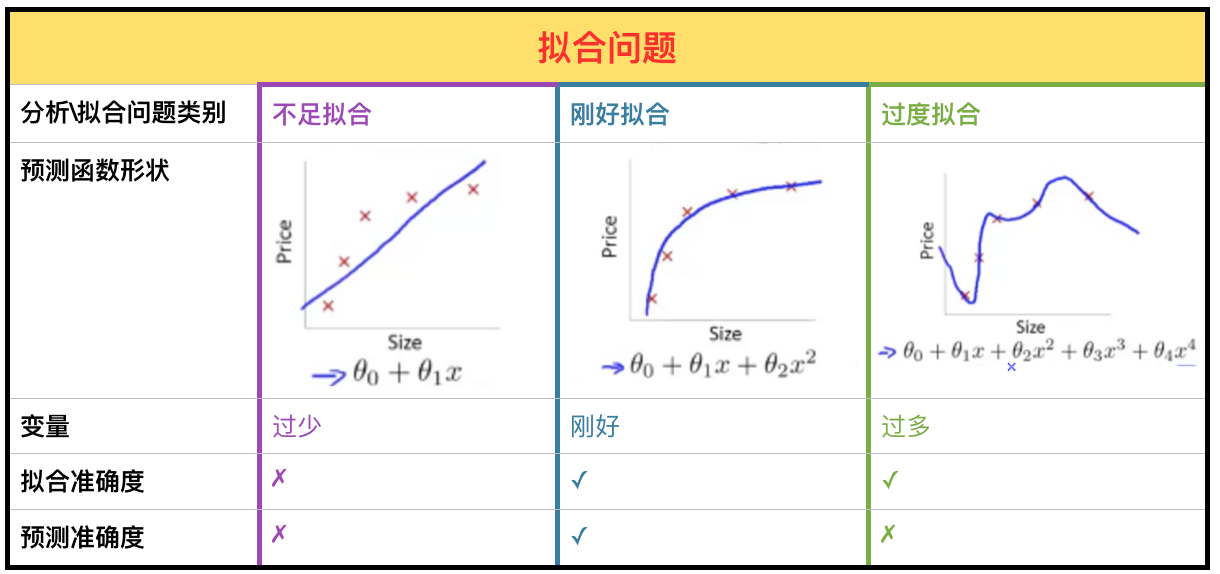
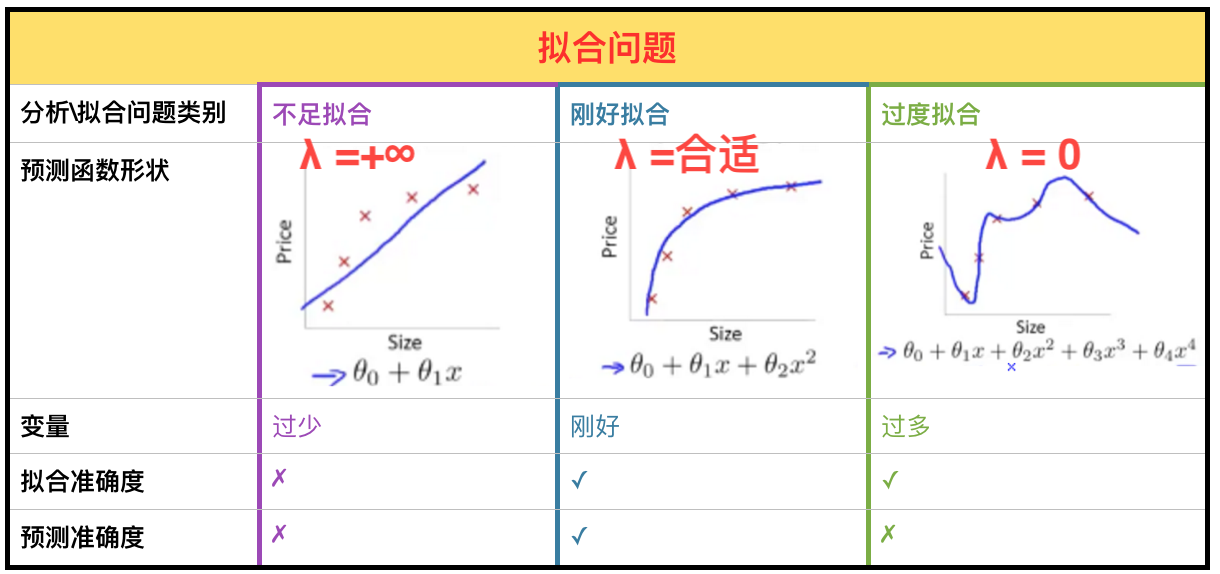
machine learning add regularization intuition

Changed region(s): [[0.4984, 0.2369, 0.623, 0.3258], [0.8098, 0.2369, 0.9033, 0.2962], [0.2492, 0.2369, 0.3426, 0.2962]]

diff --git a/_posts/-00 Mathmatics for CS/2014-12-01-Linear Algibra - Immersive Study.md b/_posts/-00 Mathmatics for CS/2014-12-01-Linear Algibra - Immersive Study.md
@@ -1,11 +1,11 @@
 ---
 layout: post
-title: Probability Theory
+title: Linear Algibra - Immersive Study 
 categories: [-00 Math]
-tags: [Probability Theory]
+tags: [Linear Algibra]
 number: [-0.1]
 fullview: false
-shortinfo: 本文是对Probability Theory的总结。
+shortinfo: 本文是对Linear Algibra的总结。
 
 ---
 目录
@@ -20,9 +20,14 @@ shortinfo: 本文是对Probability Theory的总结。
 
 ## 1 Introduction ##
 
-### 1.1 Bayers Rule
+矩阵可以从两个角度理解
 
-$$P(A \cap B)=P(B)P(A|B) = P(A)P(B|A)$$
+1. 静态， 多维空间的坐标，封装数据。
+
+2. 动态， 线性变换。
+  2.1 秩      是线性变化后基向量的空间维度
+  2.2 行列式   是线性变换后基向量张成的面积 
+  2.3 特征向量 是线性变换后仍在同一直线上的向量，特征值是这些向量的伸缩程度。
 
 ### 1.1 矩阵静态
 
@@ -30,18 +35,52 @@ $$P(A \cap B)=P(B)P(A|B) = P(A)P(B|A)$$
 
 #### 1.1.2 Dot Product
 
+$$\vec{U} \cdot \vec{V} = \begin{bmatrix} u_{1} \\\ u_{2}\end{bmatrix}  \cdot  \begin{bmatrix} v_{1} \\\ v_{2}\end{bmatrix} = u_{1}v_{1} - u_{2}v_{2} = |\vec{U}||\vec{V}|cos(<\vec{U}, \vec{V}>)$$
+
+$$\vec{U}$$投射到$$\vec{V}$$上的大小与$$|\vec{V}|$$的乘积。
+
 #### 1.1.3 Vector Product
 
+$$\vec{U} \times \vec{V} = |U||V| sin(\theta)$$
+大小为由uv向量形成的平行四边形的面积，方向为右手法则指向的垂直于uv平面
+
+- Scalar triple product: (v X u) * w, 大小为由u,v,w形成的立方体的体积，为标量。
+
+- Vector triple product: 
+
+
 #### 1.1.4 Matrix
+
+> Matrix: 2 dimentional scalar array.
 
 ### 1.2 矩阵动态
 
 #### 1.2.1 Determinants
 
+二维行列式
+
+$$A = \begin{bmatrix}a_{11} & a_{12}\\a_{21} & a_{22}\end{bmatrix} = \begin{bmatrix}\vec{a_{1}} & \vec{a_{2}}\end{bmatrix}$$
+$$det(A) =|\vec{a_{1}} \times\vec{a_{2}}| = a_{11}a_{22} - a_{12}a_{21}
+= 两个向量张成的平行四边形的面积$$
+
+{: .img_middle_hg}
+![2dDerminants]({{site.url}}/assets/images/posts/-00_Math/LinearAlgibra/2dDerminants.png)
+
+三维行列式
+
+$$A = \begin{bmatrix}a_{11} & a_{12} & a_{13}\\a_{21} & a_{22}& a_{23}\\a_{31} & a_{32}& a_{33}\end{bmatrix} = \begin{bmatrix}\vec{a_{1}} & \vec{a_{2}} & \vec{a_{3}}\end{bmatrix}$$
+$$det(A) =|\vec{a_{1}} \times\vec{a_{2}}| = a_{11}a_{22}a_{33}+a_{12}a_{23}a_{31}+a_{13}a_{21}a_{32}-a_{13}a_{22}a_{31}-a_{11}a_{23}a_{32}-a_{12}a_{21}a_{33}=三维向量张成的平行立方体的体积$$
+
+{: .img_middle_hg}
+![3dDerminants]({{site.url}}/assets/images/posts/-00_Math/LinearAlgibra/3dDerminants.png)
 
 #### 1.2.2 Rank
 
+$$A_{M \times N} : rank(A) + nullspace(A) = N$$
+
 #### 1.2.3 Linear Mappings
+
+矩阵从静态角度可以看可以是坐标，从动态角度看可以是坐标系的转换。
 
 #### 1.2.4 Eignvalues and Eigenvectors 
 

diff --git a/_posts/-00 Mathmatics for CS/2014-11-01-Probability Theory.md b/_posts/-00 Mathmatics for CS/2014-11-01-Probability Theory.md
@@ -1,11 +1,11 @@
 ---
 layout: post
-title: Linear Algibra - Immersive Study 
+title: Probability Theory
 categories: [-00 Math]
-tags: [Linear Algibra]
+tags: [Probability Theory]
 number: [-0.1]
 fullview: false
-shortinfo: 本文是对Linear Algibra的总结。
+shortinfo: 本文是对Probability Theory的总结。
 
 ---
 目录
@@ -20,14 +20,20 @@ shortinfo: 本文是对Linear Algibra的总结。
 
 ## 1 Introduction ##
 
-矩阵可以从两个角度理解
+### 1.1 Bayers Rule
 
-1. 静态， 多维空间的坐标，封装数据。
+$$P(A \cap B)=P(B)P(A|B) = P(A)P(B|A)$$
 
-2. 动态， 线性变换。
-  2.1 秩      是线性变化后基向量的空间维度
-  2.2 行列式   是线性变换后基向量张成的面积 
-  2.3 特征向量 是线性变换后仍在同一直线上的向量，特征值是这些向量的伸缩程度。
+### 1.2 Distribution
+
+$$E[X]= \mu$$
+$$cova(X, Y)= E[(X-E[X])(Y-E[Y])] = E[XY] - E[X]E[Y]  \in [-\delta(X)\delta(Y), \delta(X)\delta(Y)]$$
+
+
+
+{: .img_middle_mid}
+![gcc & gdb]({{site.url}}/assets/images/posts/-00_Math/Probability/correlation.png)
+
 
 ### 1.1 矩阵静态
 
@@ -37,46 +43,16 @@ shortinfo: 本文是对Linear Algibra的总结。
 
 #### 1.1.3 Vector Product
 
-$$\vec{U} \times \vec{V} = |U||V| sin(\theta)$$
-大小为由uv向量形成的平行四边形的面积，方向为右手法则指向的垂直于uv平面
-
-- Scalar triple product: (v X u) * w, 大小为由u,v,w形成的立方体的体积，为标量。
-
-- Vector triple product: 
-
-
 #### 1.1.4 Matrix
-
-> Matrix: 2 dimentional scalar array.
 
 ### 1.2 矩阵动态
 
 #### 1.2.1 Determinants
 
-二维行列式
-
-$$A = \begin{bmatrix}a_{11} & a_{12}\\a_{21} & a_{22}\end{bmatrix} = \begin{bmatrix}\vec{a_{1}} & \vec{a_{2}}\end{bmatrix}$$
-$$det(A) =|\vec{a_{1}} \times\vec{a_{2}}| = a_{11}a_{22} - a_{12}a_{21}
-= 两个向量张成的平行四边形的面积$$
-
-{: .img_middle_hg}
-![2dDerminants]({{site.url}}/assets/images/posts/-00_Math/LinearAlgibra/2dDerminants.png)
-
-三维行列式
-
-$$A = \begin{bmatrix}a_{11} & a_{12} & a_{13}\\a_{21} & a_{22}& a_{23}\\a_{31} & a_{32}& a_{33}\end{bmatrix} = \begin{bmatrix}\vec{a_{1}} & \vec{a_{2}} & \vec{a_{3}}\end{bmatrix}$$
-$$det(A) =|\vec{a_{1}} \times\vec{a_{2}}| = a_{11}a_{22}a_{33}+a_{12}a_{23}a_{31}+a_{13}a_{21}a_{32}-a_{13}a_{22}a_{31}-a_{11}a_{23}a_{32}-a_{12}a_{21}a_{33}=三维向量张成的平行立方体的体积$$
-
-{: .img_middle_hg}
-![3dDerminants]({{site.url}}/assets/images/posts/-00_Math/LinearAlgibra/3dDerminants.png)
 
 #### 1.2.2 Rank
 
-$$A_{M \times N} : rank(A) + nullspace(A) = N$$
-
 #### 1.2.3 Linear Mappings
-
-矩阵从静态角度可以看可以是坐标，从动态角度看可以是坐标系的转换。
 
 #### 1.2.4 Eignvalues and Eigenvectors 
 

diff --git a/_posts/-07 Machine Learning/Machine Learning/2015-05-03-Machine Learning Part I：监督式学习(三)：分类.md b/_posts/-07 Machine Learning/Machine Learning/2015-05-03-Machine Learning Part I：监督式学习(三)：分类.md
@@ -229,6 +229,10 @@ $$
 
 2. **正则化(Regularization)**，保持所有Feature，但是减小Feature的权重，即$\theta_(j)$。这当我们有很多略有用的Feature时解决的效果很好。
 
+> 正则化的直觉理解： $\lambda$越小，接近0，则有可能高阶$\theta$很大，导致拟合太灵活，test error接近0； $\lambda$越大，接近正无穷，则所有$\theta$太小，导致一条直线，拟合太刚硬，test error太大。适当的$\lambda$可以获得不刚硬又不过分灵活的拟合曲线，比较光滑简单，考虑各个feature，又不放大单一feature的影响。模型test error太大，可能因为模型太呆板，太固执；也可能是因为模型太随性，太无主见： regularizer 提供了一个叫$\lambda$的旋钮，调大能让模型不要太随性，调小能让模型不要呆板。
+
+
+
 
 ### 3.2 成本函数 ###
 
@@ -340,6 +344,7 @@ $$
 
 {: .img_middle_hg}
 ![supervised learning summary.jpg]({{site.url}}/assets/images/posts/07_Machine Learning/Machine Learning/2015-05-03/supervised learning summary.jpg)
+
 
 ## 6 参考资料 ##
 
